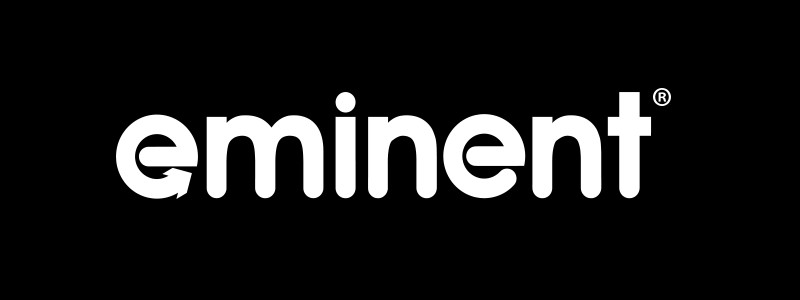
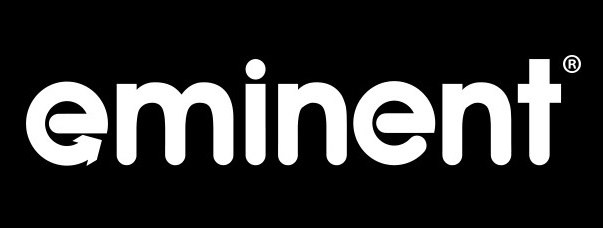
css changes

Changed region(s): [[0.0299, 0.2456, 0.9851, 0.7368]]

diff --git a/src/app/components/dashboard/dashboard.component.html b/src/app/components/dashboard/dashboard.component.html
@@ -196,7 +196,7 @@
           Total Credit:&nbsp;&nbsp;&nbsp;&nbsp;&nbsp;&nbsp;
         </td>
         <td>
-          {{ emicard.totalCredit }}&nbsp;&nbsp;INR
+          {{ emicard.totalCredit }}&nbsp;&nbsp;₹
         </td>
       </tr>
 
@@ -205,7 +205,7 @@
           Credit Used:&nbsp;&nbsp;&nbsp;&nbsp;&nbsp;&nbsp;
         </td>
         <td>
-          {{ totalcreds - emicard.accBalance }}&nbsp;&nbsp;INR
+          {{ totalcreds - emicard.accBalance }}&nbsp;&nbsp;₹
         </td>
       </tr>
 
@@ -214,7 +214,7 @@
           Remaining Credit:&nbsp;&nbsp;&nbsp;&nbsp;&nbsp;&nbsp;
         </td>
         <td>
-          {{ emicard.accBalance }}&nbsp;&nbsp;INR
+          {{ emicard.accBalance }}&nbsp;&nbsp;₹
         </td>
       </tr>
 
@@ -230,7 +230,7 @@
 
  
 
-  <div class="roundBorder applyImg" style="margin-top: 1%; width: 93%;">
+  <div class="roundBorder applyImg" style="margin-top: 1%; width: 100%;">
     <h5>Recent Purchases</h5>
     <hr>
     <button style=" margin-bottom: 3%; " class="btn btn-primary" (click)="showMore()">Show more</button>
@@ -239,7 +239,7 @@
         <table class="table table-striped table-hover">
           <tr *ngFor="let x of showMoreList">
             <td>Product:&nbsp;&nbsp;&nbsp;&nbsp; {{productColl3.get(x)}}</td>
-            <td>Price: &nbsp;&nbsp;&nbsp;&nbsp;{{productColl4.get(x)}}</td>
+            <td>Price: &nbsp;&nbsp;&nbsp;&nbsp;{{productColl4.get(x)}} ₹</td>
           </tr>
         </table>
     </ng-template>
@@ -255,17 +255,18 @@
           <div *ngIf="cPurchaseRecord.length>0;then ProductBought else NotBought"></div>
           <ng-template #ProductBought>
             <table class="table table-striped table-hover">
+              <th>Name</th> <th>Price</th> <th>EMI Paid</th> <th>EMI Balance</th> <th>EMI Status</th>
               <tr *ngFor="let x of cPurchaseRecord">
                 <td>
-                  Name: &nbsp;&nbsp; &nbsp;&nbsp;&nbsp;&nbsp;&nbsp;&nbsp; {{productColl1.get(x.productId)}}
-                </td>&nbsp; <td>
-                  Amount:&nbsp;&nbsp;&nbsp;&nbsp;{{productColl2.get(x.productId)}}&nbsp;&nbsp;INR
+                  {{productColl1.get(x.productId)}}
+                </td><td>
+                  {{productColl2.get(x.productId)}}&nbsp;&nbsp;₹
                 </td>
                 <td>
-                  Paid: &nbsp;&nbsp;{{productColl2.get(x.productId)-x.productBalance| number : '1.2-2'}}&nbsp;&nbsp;INR
+                  {{productColl2.get(x.productId)-x.productBalance| number : '1.2-2'}}&nbsp;&nbsp;₹
                 </td>
                 <td>
-                  Balance:&nbsp;&nbsp;{{x.productBalance | number : '1.2-2'}}&nbsp;&nbsp;INR
+                  {{x.productBalance | number : '1.2-2'}}&nbsp;&nbsp;₹
                 </td>
                 <!-- <td>
                   <button (click)="showData(x.latestEmimonth)">Click</button>

diff --git a/src/app/components/register/register.component.ts b/src/app/components/register/register.component.ts
@@ -3,6 +3,8 @@ import { NgForm, Validator } from '@angular/forms';
 import { Router } from '@angular/router';
 import { Consumer } from 'src/app/models/consumer';
 import { RegService } from 'src/app/services/reg.service';
+import { LoginService } from 'src/app/services/login.service';
+
 
 @Component({
   selector: 'app-register',
@@ -10,25 +12,66 @@ import { RegService } from 'src/app/services/reg.service';
   styleUrls: ['./register.component.css']
 })
 export class RegisterComponent {
-  constructor (public service : RegService, private router:Router) {}
+  consumers:Consumer[]=[];
+  constructor (public service : RegService, private router:Router,public loginService:LoginService) {}
 
   banks = ['IDFC','HSBC','HDFC','ICICI']
   obj = new Consumer(0,"","",new Date(),"","","","","","","","","",false);
   opw : string = "";
   card : string ="";
   flag : boolean = false;
+  flagUnique:boolean=true;
 
   // msg:string="";
-
+  ngOnInit(){
+    this.loginService.GetAllConsumers().subscribe(data=>{
+      this.loginService.consumers=data;
+      this.consumers=data;
+      console.log(this.consumers);
+    });
+  }
   radioClicked() {
     this.flag = true;
   }
 
   onSubmit(form:NgForm) {
+    this.flagUnique=true;
+    for(let c of this.consumers){
+      if(c.emailId==form.form.value.email){
+        this.flagUnique=false;
+        alert("Email already exists!");
+        break;
+      }
+      if(c.userName==form.form.value.username){
+        this.flagUnique=false;
+        alert("Username already exists!");
+        break;
+      }
+      if(c.accNo==form.form.value.savingsAccount){
+        this.flagUnique=false;
+        alert("Account already exists!");
+        break;
+      }
+      if(c.phoneNumber==form.form.value.phone){
+        this.flagUnique=false;
+        alert("Phone number already exists!");
+        break;
+      }
+    }
+
+    if(form.form.value.dob==new Date()){
+      this.flagUnique=false;
+        alert("Enter a valid date!");
+    }
+
+    if(this.flagUnique){
     this.service.postReg().subscribe(
       res => {this.router.navigate(['login'])},
       err => {console.log(err);}
     );
+  }
+
+
   }
 
   // onSubmit(form:NgForm):void

diff --git a/src/app/components/product-info/product-info.component.html b/src/app/components/product-info/product-info.component.html
@@ -1,5 +1,6 @@
 <app-navbar-logged-in></app-navbar-logged-in>
-<h3><u>Product Info</u></h3>
+<html>
+<body>
 <div class="card" style="padding-top: 20px;padding-bottom: 10px;">
     <div class="row" style="padding-top: 20px;padding-bottom: 10px;">
       <div class="col-sm-6">
@@ -7,14 +8,15 @@
           </div>
       <div class="col-sm-6" style="padding-top: 20px;">  
           <h3></h3>
-          <p><u>Product Name:</u> {{product.productName}}</p>
-          <p>Product Details: {{product.prodDetails}}</p>
-          <p>Cost: {{product.price}}</p>
+          <p><b>Product Name:</b> {{product.productName}}</p>
+          <p><b>Product Details:</b> {{product.prodDetails}}</p>
+          <p><b>Cost:</b> {{product.price}} ₹</p>
           <p class="text-danger">EMI Period</p>
           <select [(ngModel)]="selectedEmi">
               <option *ngFor="let emi of emiPeriod" [ngValue]="emi">{{emi.name}}</option>
-          </select><br><br>
-          <p class="font-weight-bold">EMI Starting {{product.price/selectedEmi.value| number : '1.2-2'}} per month</p>
+          </select>
+          <br><br>
+          <p class="font-weight-bold">EMI Starting {{product.price/selectedEmi.value| number : '1.2-2'}} ₹ per month</p>
           <button class="btn btn-primary"(click)="Payment()" [disabled] = "(selectedEmi.value!=3 && selectedEmi.value!=6 && selectedEmi.value!=9 && selectedEmi.value!=12 )|| count_card!=1 || count_valid!=1 || count_isbalance!=1" >Pay Now</button>
           <span>
             <div *ngIf="!flag_card">Your card has not been activated yet.</div>
@@ -24,3 +26,5 @@
       </div>
   </div>
   </div>
+</body>
+</html>

diff --git a/src/app/components/navbar-logged-in/navbar-logged-in.component.html b/src/app/components/navbar-logged-in/navbar-logged-in.component.html
@@ -21,7 +21,7 @@
 </nav> -->
 
 <nav class="navbar navbar-expand-lg navbar-light bg-light">
-  <a class="navbar-brand" routerLink="/dashboard" style="margin-left: 2%;"><img src="./assets/images/eminent.png" width="70%" height="70px" class="d-inline-block align-top" alt="">
+  <a class="navbar-brand" routerLink="/dashboard" style="margin-left: 5%;"><img src="./assets/images/eminent.png" width="85%" height="70px"  class="d-inline-block align-top" style="border-radius: 15%;" alt="">
     </a>
   <button class="navbar-toggler" routerLink="/dashboard"type="button" data-toggle="collapse" data-target="#navbarSupportedContent" aria-controls="navbarSupportedContent" aria-expanded="false" aria-label="Toggle navigation">
     <span class="navbar-toggler-icon"></span>
@@ -30,7 +30,7 @@
   <div class="collapse navbar-collapse" id="navbarSupportedContent">
     <ul class="navbar-nav mr-auto">
       <li class="nav-item active">
-        <a class="nav-link" routerLink="/productlist" style="font-size: xx-large;">Go To Product List</a>
+        <a class="nav-link" routerLink="/productlist" style="font-size: x-large;">Products</a>
       </li>
     </ul>
   </div>

diff --git a/src/app/components/product-list/product-list.component.html b/src/app/components/product-list/product-list.component.html
@@ -1,6 +1,6 @@
 
 <app-navbar-logged-in></app-navbar-logged-in>
-<h3><u>Product list</u></h3>
+<body>
 <div class="card" style="padding-top: 20px;padding-bottom: 10px;">
     <div class="row" *ngFor="let prod of product" style="padding-top: 20px;padding-bottom: 10px;">
       <div class="col-sm-6">
@@ -8,10 +8,11 @@
           </div>
       <div class="col-sm-6" style="padding-top: 20px;">  
           <h3></h3>
-          <p><u>Product Name:</u> {{prod.productName}}</p>
-          <p>Product Details: {{prod.prodDetails}}</p>
-          <p>Cost: {{prod.price}}</p>
+          <p><b>Product Name:</b> {{prod.productName}}</p>
+          <p><b>Product Details:</b> {{prod.prodDetails}}</p>
+          <p><b>Cost:</b> {{prod.price}} ₹</p>
           <button class="btn btn-primary" (click)="getProdInfo(prod.pid)">Buy Now</button>
       </div>
   </div>
   </div>
+</body>

diff --git a/src/app/components/payment/payment.component.html b/src/app/components/payment/payment.component.html
@@ -19,18 +19,18 @@
         <tbody>
             <tr>
                 <td>{{product.productName}}</td>
-                <td>{{purchaseRecord.totalMonthsSelected}} Months</td>
-                <td>Rs. {{EMIvalue}}</td>
+                <td>{{purchaseRecord.totalMonthsSelected+1}} Months</td>
+                <td>₹ {{EMIvalue| number : '1.2-2'}} per month</td>
           </tr>
             <tr>
                 <td></td>
               <th>Processing Fee</th>
-                <td>Rs. {{processingfee}}</td>
+                <td>₹ {{processingfee}}</td>
             </tr>
             <tr>
                 <td></td>
               <th>Total Price</th>
-                <td>Rs. {{totalcost}}</td>
+                <td>₹ {{totalcost}}</td>
             </tr>
         </tbody>
     </table>

diff --git a/src/app/components/index/index.component.html b/src/app/components/index/index.component.html
@@ -6,8 +6,8 @@
 </style>
 <body>
 <nav class="navbar navbar-expand-lg navbar-light bg-light">
-  <a class="navbar-brand" routerLink="/"><img src="./assets/images/logoTry.jpg" width="50%" height="50px" class="d-inline-block align-top" alt="">
-    EMI App</a>
+  <a class="navbar-brand" routerLink="/"><img src="./assets/images/eminent.png" width="50%" height="50px" class="d-inline-block align-top" alt="">
+    Emi-nent</a>
   <button class="navbar-toggler" routerLink="/dashboard"type="button" data-toggle="collapse" data-target="#navbarSupportedContent" aria-controls="navbarSupportedContent" aria-expanded="false" aria-label="Toggle navigation">
     <span class="navbar-toggler-icon"></span>
   </button>

diff --git a/src/app/components/register/register.component.html b/src/app/components/register/register.component.html
@@ -22,7 +22,7 @@
   
       <div class="form-group">
         <label>Email ID</label>
-        <input type="email" pattern="[a-z0-9._%+-]+@[a-z0-9.-]+\.[a-z]{2,4}$" required email #email="ngModel" [class.is-invalid]="email.invalid && email.touched" name = "emailID" class = "form-control" [(ngModel)]="service.formData.emailId"> 
+        <input type="email" pattern="[a-z0-9._%+-]+@[a-z0-9.-]+\.[a-z]{2,4}$" required email #email="ngModel" [class.is-invalid]="email.invalid && email.touched" name = "email" class = "form-control" [(ngModel)]="service.formData.emailId"> 
         <small class="text-danger" [class.d-none] ="email.valid || email.untouched">Invalid email ID</small>
       </div><br>
   

diff --git a/src/app/components/payment/payment.component.ts b/src/app/components/payment/payment.component.ts
@@ -21,7 +21,7 @@ export class PaymentComponent implements OnInit {
     console.log(this.product)
     console.log(this.product.productName)
     this.processingfee = this.product.price * 0.05;
-    this.EMIvalue = this.product.price/this.purchaseRecord.totalMonthsSelected
+    this.EMIvalue = this.product.price/(this.purchaseRecord.totalMonthsSelected+1)
     this.totalcost = this.product.price  + this.processingfee
 
   }

diff --git a/src/app/components/login/login.component.ts b/src/app/components/login/login.component.ts
@@ -27,7 +27,7 @@ export class LoginComponent implements OnInit {
 
   login(form:NgForm){
     // console.log(this.loginService.logins);
-    // console.log(this.loginService.consumers);
+    console.log(this.loginService.consumers);
     // console.log(this.loginService.admins);
     var result=this.loginService.login(form.value.userName, form.value.password);
 

diff --git a/src/app/services/reg.service.ts b/src/app/services/reg.service.ts
@@ -10,6 +10,8 @@ import { no } from '../API_LHnumber';
 })
 export class RegService {
 
+  consumers:Consumer[]=[];
+
   constructor(private http : HttpClient) { }
 
   formData : Consumer = new Consumer(0,"","",new Date(),"","","","","","","","","",false);
@@ -29,6 +31,8 @@ export class RegService {
   //     })
   //   });
   // }
+
+
 }
 
 

diff --git a/src/app/components/product-list/product-list.component.css b/src/app/components/product-list/product-list.component.css
@@ -8,3 +8,10 @@
   div {
       font-family: Product Sans;
   }
+  .card{
+    background-color: #f5feff;
+}
+body{
+    background-color: #f5feff;
+    overflow-x: hidden;
+}
